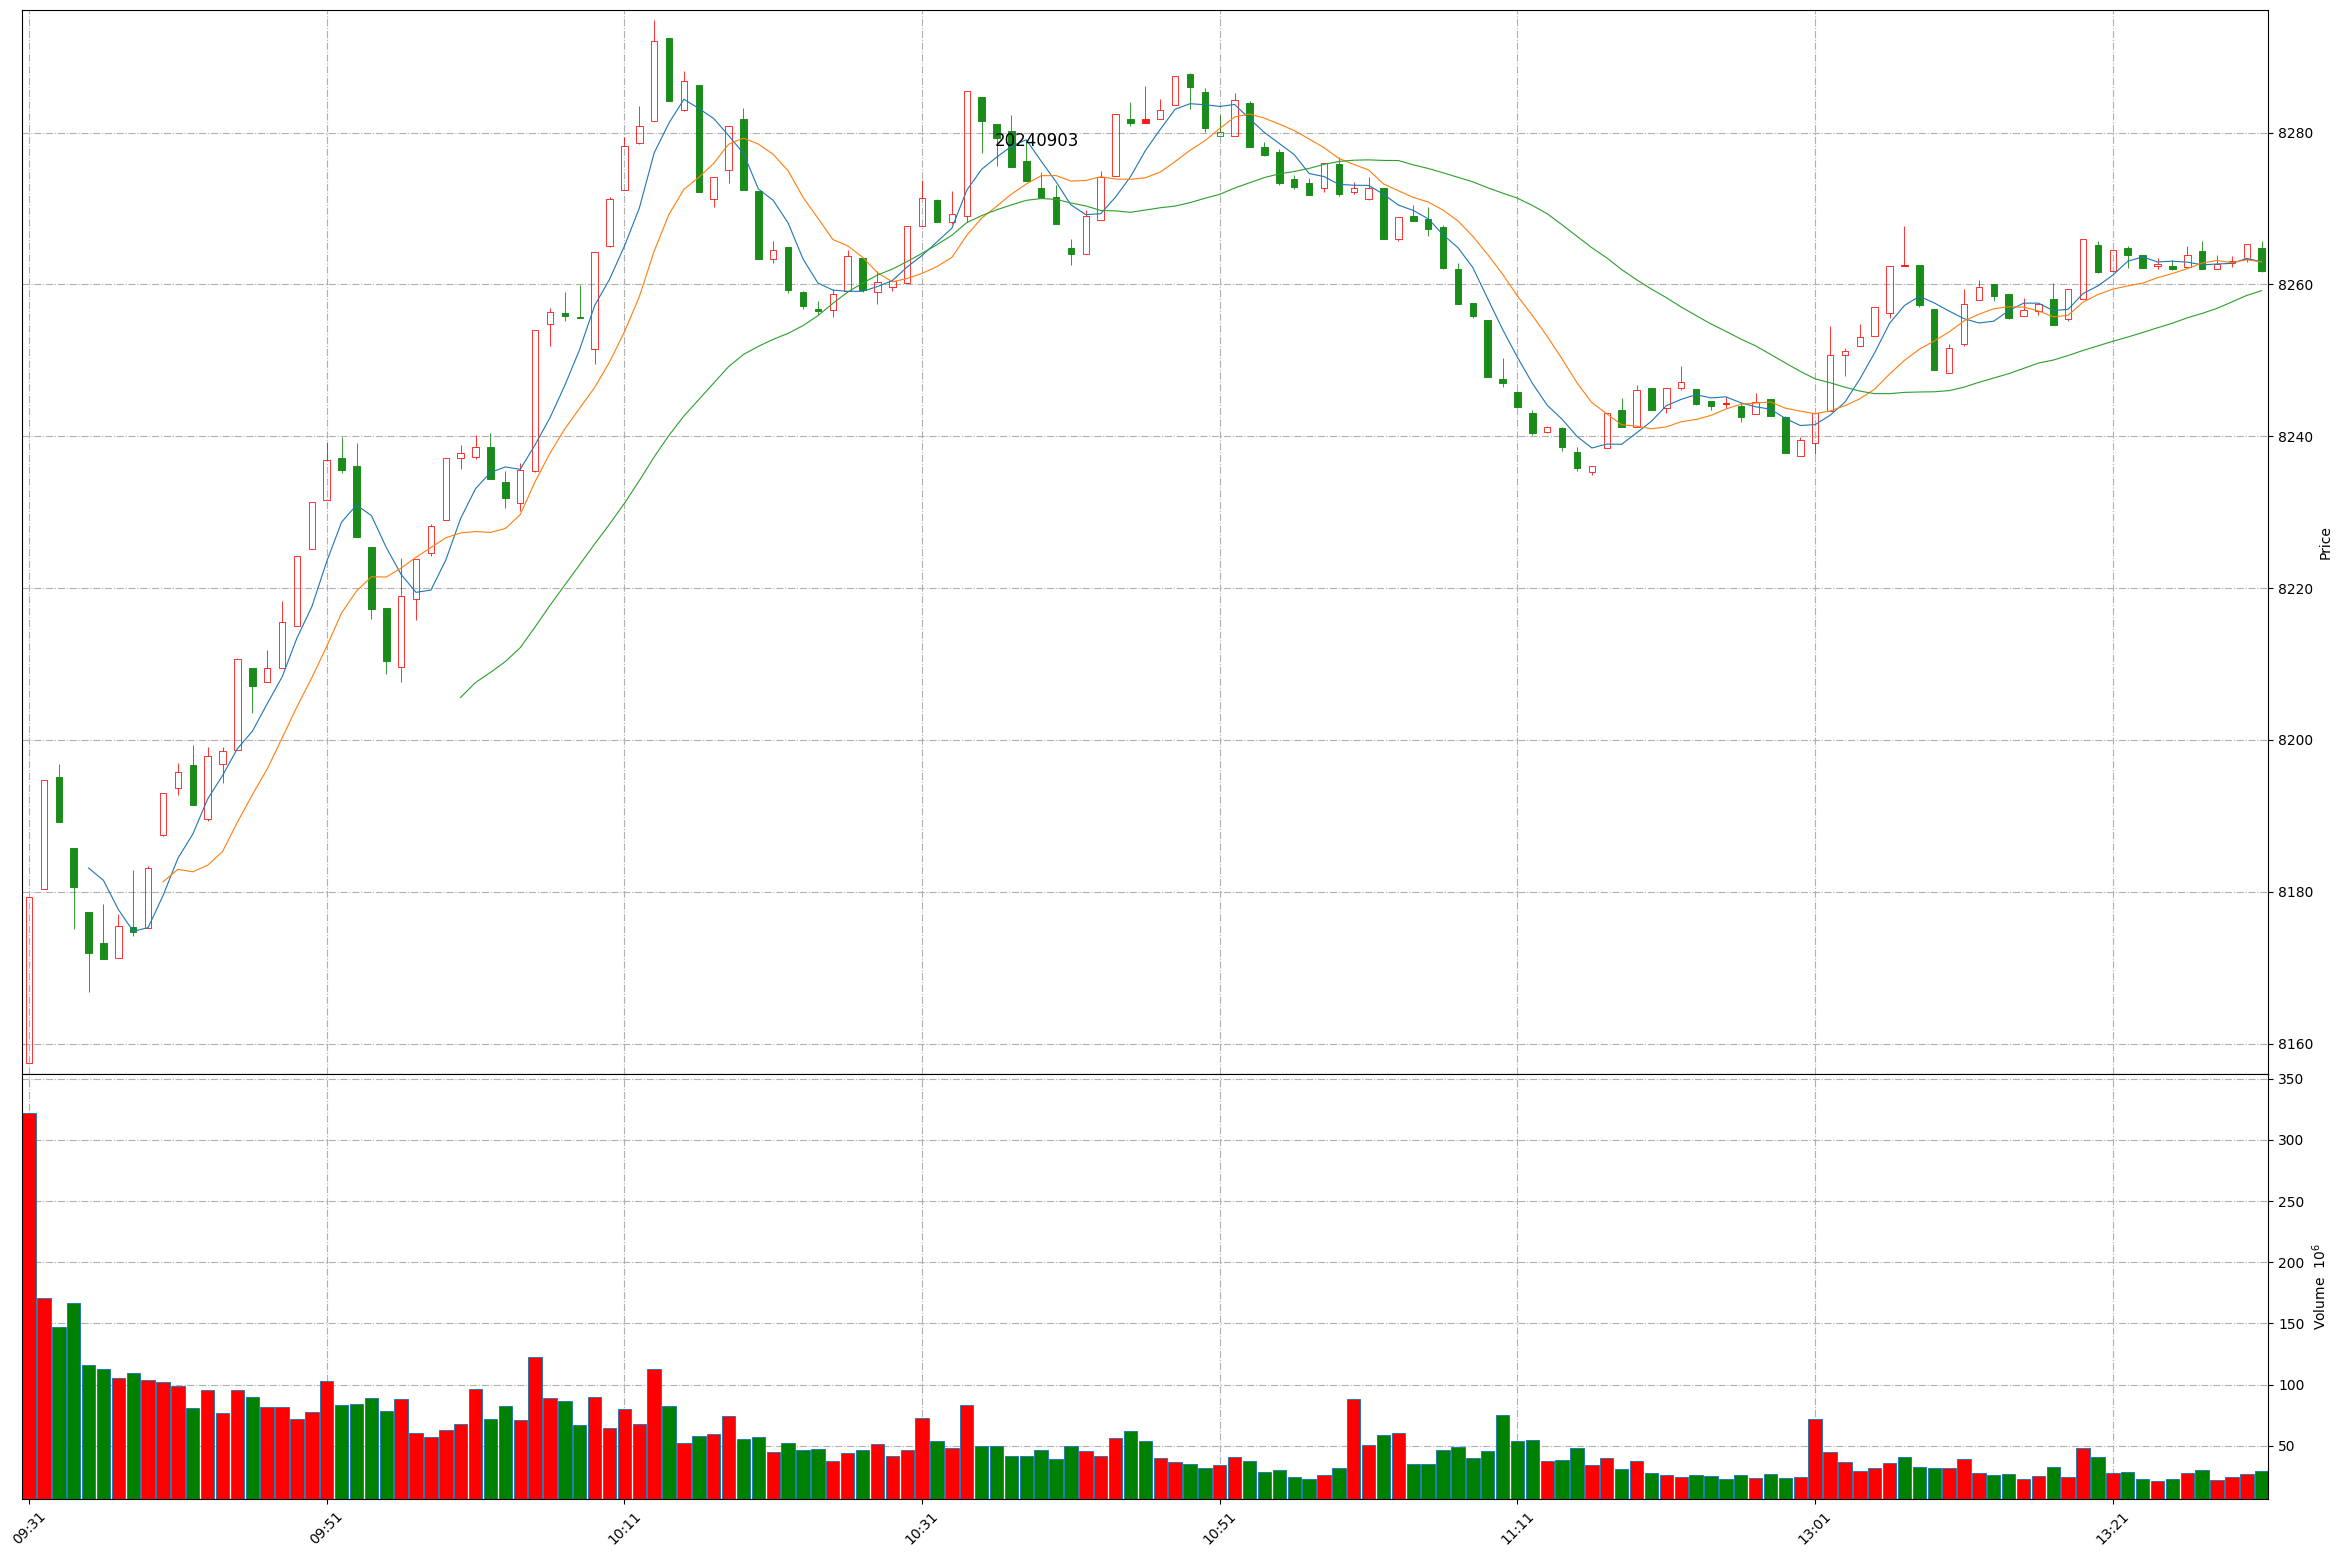
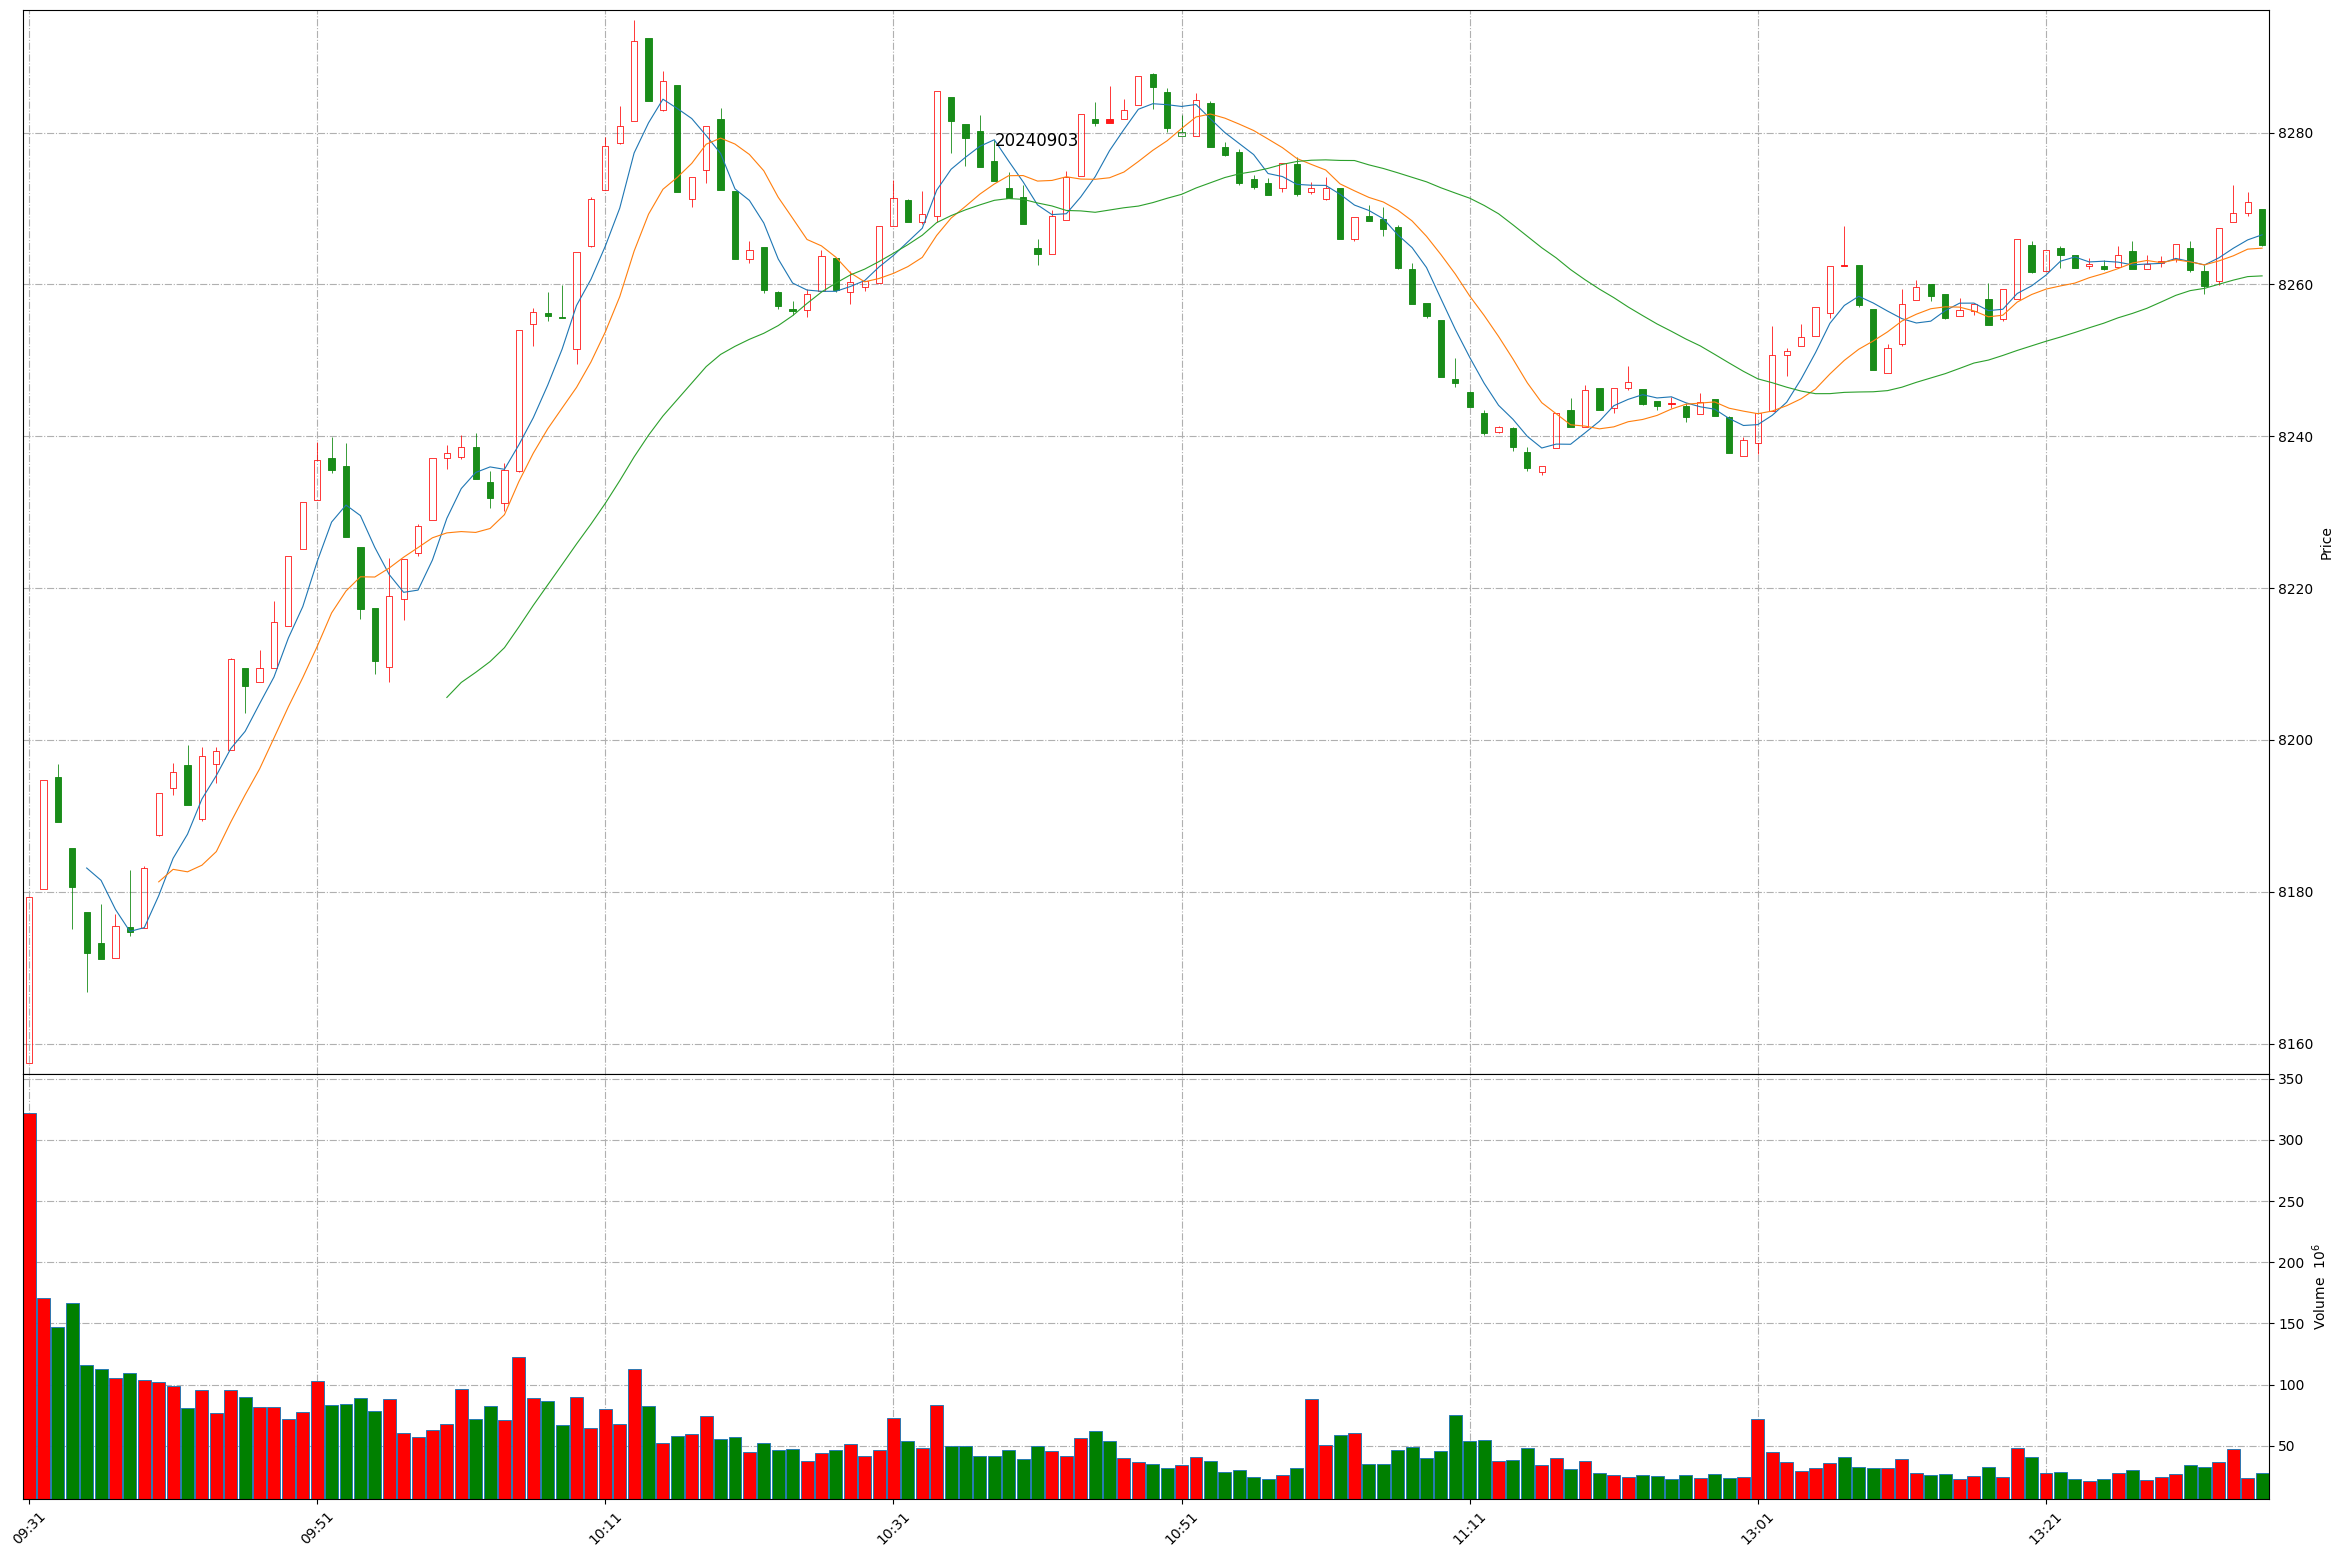
Github action update at 2024-09-03 13:35:54.

diff --git a/README.md b/README.md
@@ -1,11 +1,11 @@
 
 # Daily-A-share-market-quotes 每日 A 股指数（5min 更新）- 20240903
 
-### 上证指数 20240903 13:31
+### 上证指数 20240903 13:35
 ![](./fig/2024/9/20240903-sh000001.png)
 
-### 深证成指 20240903 13:31
+### 深证成指 20240903 13:35
 ![](./fig/2024/9/20240903-sz399001.png)
 
-### 北证50 20240903 13:31
+### 北证50 20240903 13:35
 ![](./fig/2024/9/20240903-bj899050.png)
